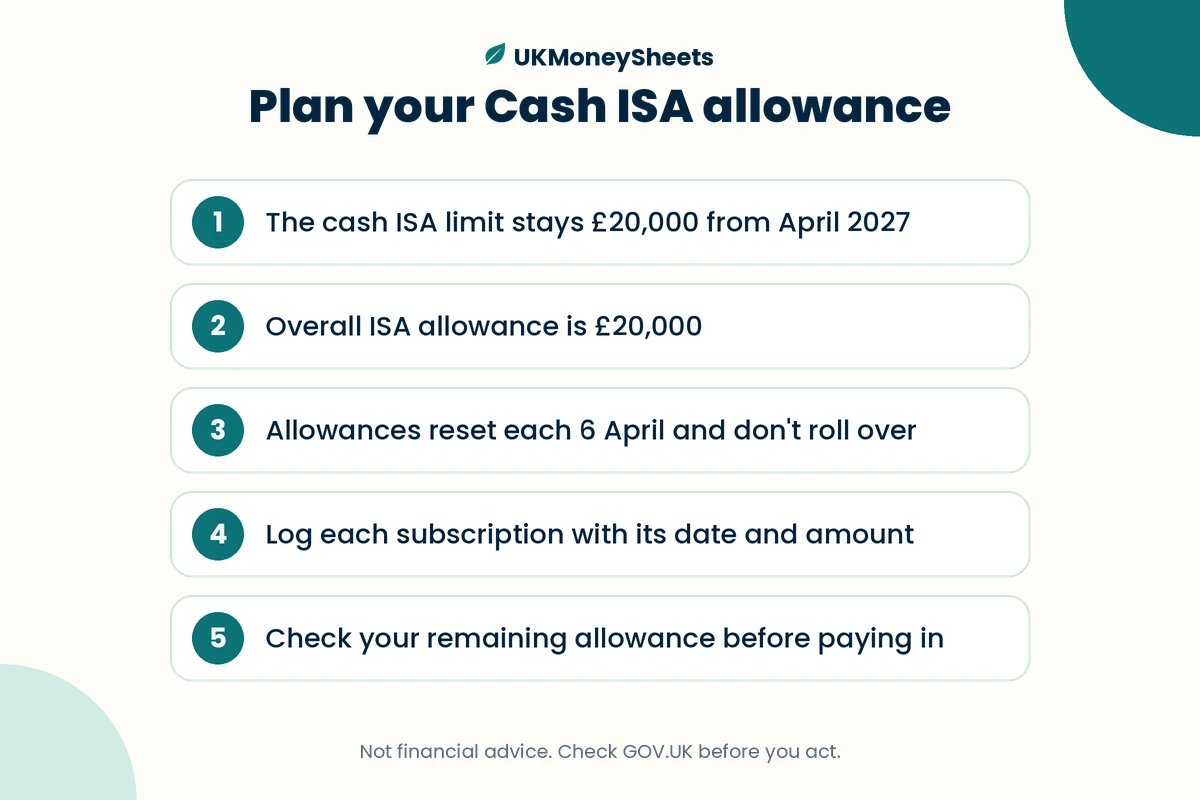
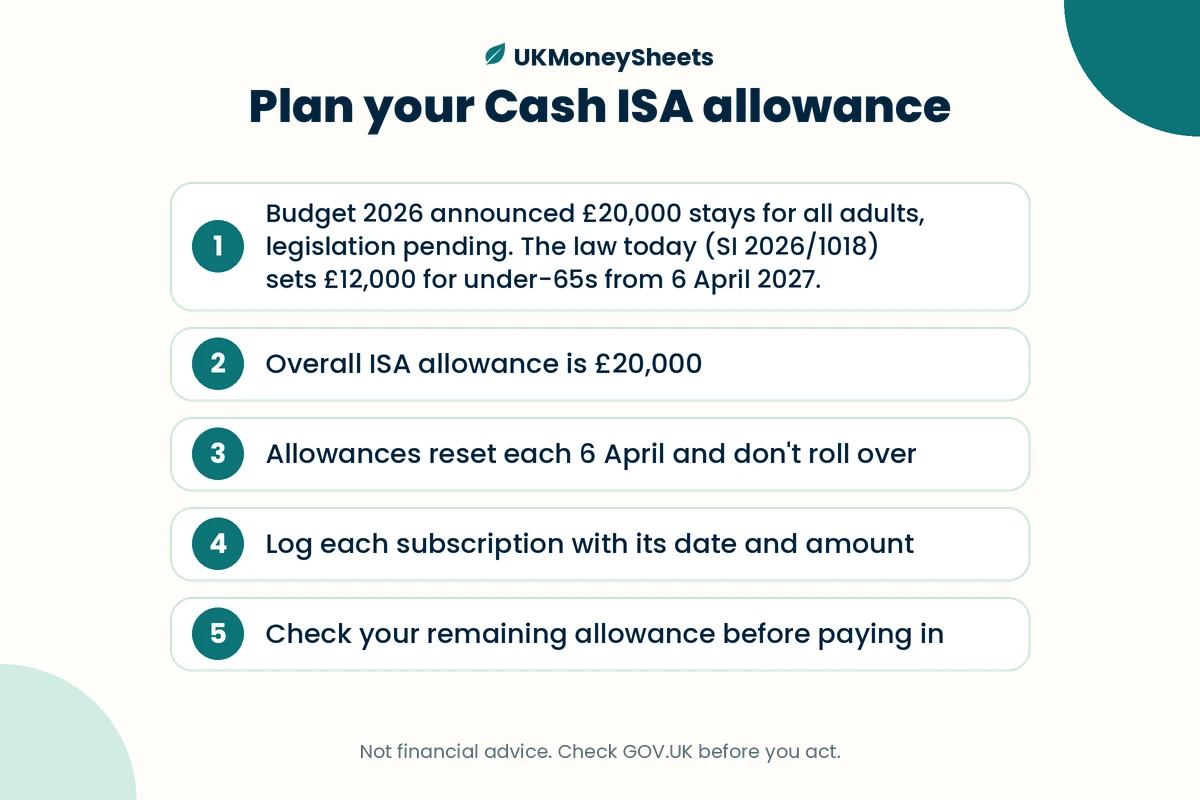
Budget: Bank Rate 4% after 5 Nov 2026 rise, next 17 Dec (BoE-verified); restore Nia's hedged cash ISA image 2 (?v=3, new alt)

Changed region(s): [[0.1542, 0.2188, 0.8633, 0.8438], [0.8017, 0.5625, 0.8633, 0.6562], [0.8325, 0.8125, 0.8633, 0.8438]]

diff --git a/src/lib/articles/budget.ts b/src/lib/articles/budget.ts
@@ -110,7 +110,7 @@ Table: Your First Home: GOV.UK example for a £300,000 home
 
 **Lifetime ISA:** from 29 October 2026 the withdrawal charge falls to 20% for first-time buyers buying above the £450,000 LISA cap; other unauthorised withdrawals stay at 25%. A new First Time Buyer ISA replaces the LISA for new savers from 6 April 2029 (£4,000 a year, 25% bonus, homes up to £450,000, bonus capped at £20,000, no upper age limit). Existing LISA holders carry on.
 
-**Not announced in the Budget:** any change to Stamp Duty Land Tax rates or first-time buyer relief. Bank Rate is a Bank of England decision (next on 5 November), not part of the Budget.
+**Not announced in the Budget:** any change to Stamp Duty Land Tax rates or first-time buyer relief. Bank Rate is a Bank of England decision (4% after the 5 November 2026 rise; next decision 17 December 2026), not part of the Budget.
 
 Saving for a deposit? See the [house deposit LISA planner guide](/guides/house-deposit-lisa-planner) and its [Google Sheets planner](https://www.etsy.com/listing/4463017307?utm_source=site). Already have a mortgage? Try the [mortgage overpayment calculator](/guides/mortgage-overpayment-calculator#calculator) and the [Mortgage Overpayment Calculator for Google Sheets](https://www.etsy.com/listing/4563937681?utm_source=site).
 

diff --git a/src/lib/guides.ts b/src/lib/guides.ts
@@ -135,8 +135,10 @@ export const guides: GuideMeta[] = [
         src: "/guides/inguide/cash-isa-12k-under-65-planner/1.webp?v=4",
         alt: "Real Google Sheets screenshot: plan regular saving in Google Sheets, sample data",
       },
-      // nearChecklist removed 9 Nov 2026: image 2 stated the £20,000 cash ISA
-      // limit as settled fact. File kept for Nia to replace.
+      nearChecklist: {
+        src: "/guides/inguide/cash-isa-12k-under-65-planner/2.webp?v=3",
+        alt: "Plan your Cash ISA allowance: Budget 2026 announced £20,000 stays for all adults, legislation pending. The law today (SI 2026/1018) sets £12,000 for under-65s from 6 April 2027; Overall ISA allowance is £20,000; Allowances reset each 6 April and don't roll over; Log each subscription with its date and amount; Check your remaining allowance before paying in",
+      },
     },
     shopLine:
       "Browse UK Google Sheets for budgeting and savings alongside your ISA plan on Etsy.",
